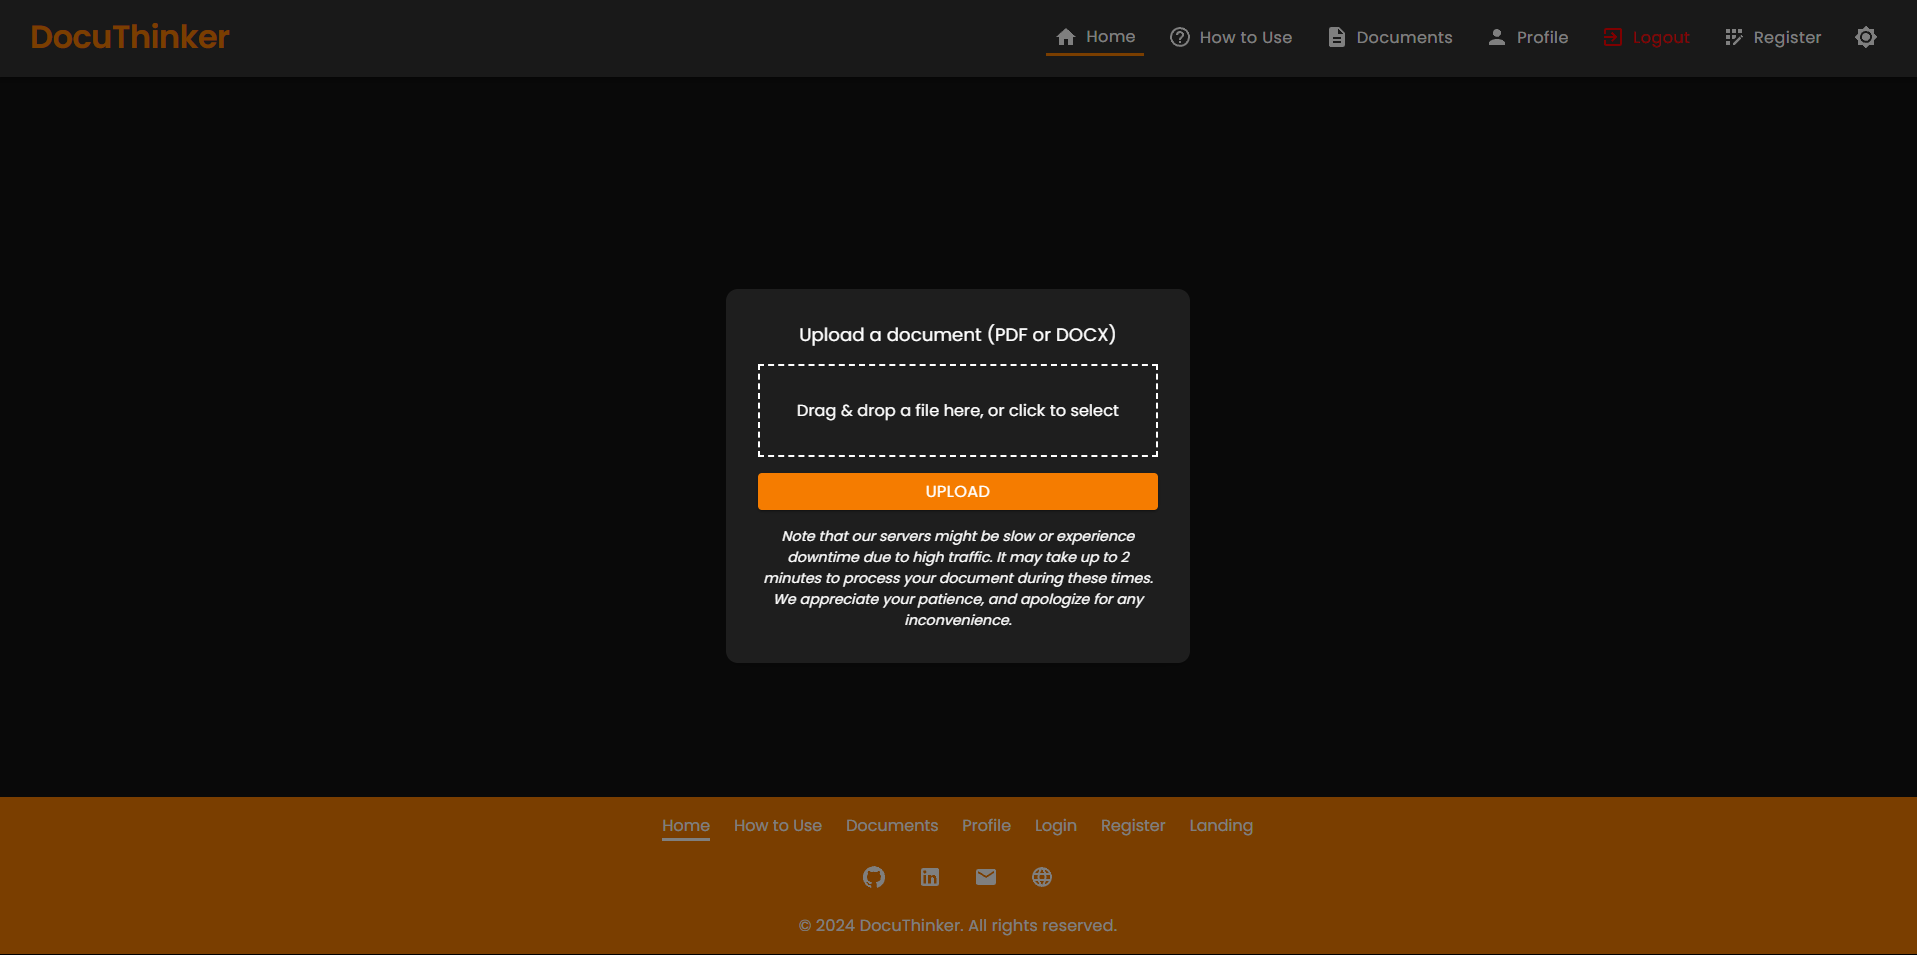
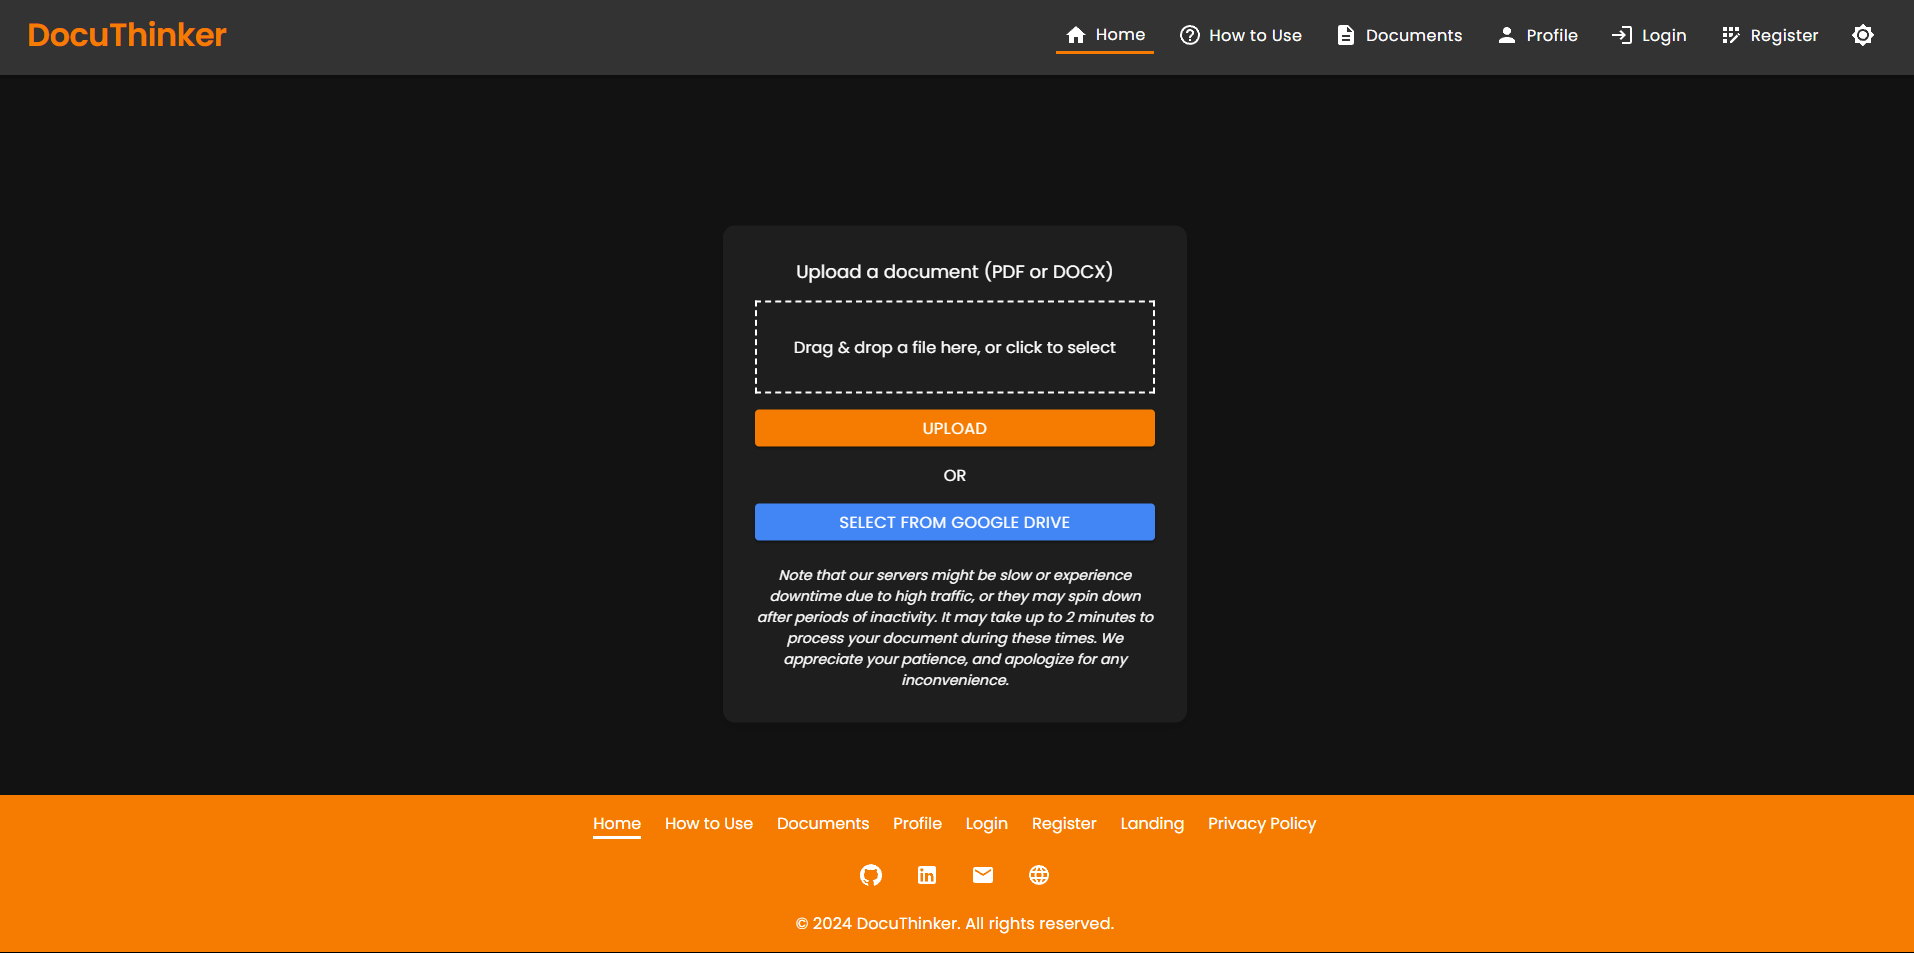
Final: App Working & React FE Done

diff --git a/frontend/src/components/UploadModal.js b/frontend/src/components/UploadModal.js
@@ -1,5 +1,5 @@
 import React, { useEffect, useState } from 'react';
-import { Box, Button, Modal, Typography, CircularProgress, TextField } from '@mui/material';
+import { Box, Button, Typography, CircularProgress, TextField } from '@mui/material';
 import { useDropzone } from 'react-dropzone';
 import axios from 'axios';
 import { gapi } from 'gapi-script';
@@ -17,6 +17,8 @@ const UploadModal = ({ setSummary, setOriginalText, setDocumentFile, theme }) =>
   const [googleAuth, setGoogleAuth] = useState(null);
   const [isGoogleAuthReady, setIsGoogleAuthReady] = useState(false);
   const [driveModalOpen, setDriveModalOpen] = useState(false);
+
+  console.log(open, isUploaded);
 
   const initClient = () => {
     return new Promise((resolve, reject) => {
@@ -116,140 +118,131 @@ const UploadModal = ({ setSummary, setOriginalText, setDocumentFile, theme }) =>
 
   return (
       <>
-        <Modal
-            open={open}
-            onClose={() => {
-              if (isUploaded) setOpen(false);
-            }}
-            disablePortal
-            disableBackdropClick={!isUploaded}
-            disableEscapeKeyDown={!isUploaded}
-            BackdropProps={{
-              style: { backgroundColor: 'rgba(0, 0, 0, 0.5)' },
-            }}
+        <Box
             sx={{
-              zIndex: 1200,
+              position: 'fixed',
+              top: '50%',
+              left: '50%',
+              transform: 'translate(-50%, -50%)',
+              width: { xs: '90%', sm: '70%', md: '400px' },
+              maxHeight: '90vh',
+              padding: { xs: 2, sm: 4 },
+              bgcolor: theme === 'dark' ? '#1e1e1e' : 'white',
+              textAlign: 'center',
+              borderRadius: '12px',
+              transition: 'background-color 0.3s ease',
+              color: theme === 'dark' ? 'white' : 'black',
+              overflowY: 'auto',
+              boxShadow: '0 4px 12px rgba(0, 0, 0, 0.1)',
+              zIndex: 1000,
+              pointerEvents: 'auto',
             }}
         >
-          <Box
+          <Typography
+              variant="h6"
               sx={{
-                position: 'absolute',
-                top: '50%',
-                left: '50%',
-                transform: 'translate(-50%, -50%)',
-                width: { xs: '90%', sm: '70%', md: '400px' },
-                maxHeight: '90vh',
-                padding: { xs: 2, sm: 4 },
-                bgcolor: theme === 'dark' ? '#1e1e1e' : 'white',
-                textAlign: 'center',
-                borderRadius: '12px',
-                transition: 'background-color 0.3s ease',
+                marginBottom: 2,
+                font: 'inherit',
+                fontSize: { xs: '16px', sm: '18px' },
                 color: theme === 'dark' ? 'white' : 'black',
-                overflowY: 'auto',
-                boxShadow: '0 4px 12px rgba(0, 0, 0, 0.1)',
-                border: 'none', // Ensure there's no border around the modal
-                outline: 'none', // Remove any default outline that may appear
+                transition: 'color 0.3s ease',
               }}
           >
+            Upload a document (PDF or DOCX)
+          </Typography>
+
+          <Box
+              {...getRootProps()}
+              sx={{
+                border: `2px dashed ${theme === 'dark' ? 'white' : '#f57c00'}`,
+                padding: { xs: 2, sm: 4 },
+                cursor: 'pointer',
+                marginBottom: 2,
+                transition: 'border-color 0.3s ease',
+              }}
+          >
+            <input {...getInputProps()} />
             <Typography
-                variant="h6"
+                variant="body1"
                 sx={{
-                  marginBottom: 2,
                   font: 'inherit',
-                  fontSize: { xs: '16px', sm: '18px' },
                   color: theme === 'dark' ? 'white' : 'black',
                   transition: 'color 0.3s ease',
                 }}
             >
-              Upload a document (PDF or DOCX)
+              Drag & drop a file here, or click to select
             </Typography>
+          </Box>
 
-            <Box
-                {...getRootProps()}
-                sx={{
-                  border: `2px dashed ${theme === 'dark' ? 'white' : '#f57c00'}`,
-                  padding: { xs: 2, sm: 4 },
-                  cursor: 'pointer',
-                  marginBottom: 2,
-                  transition: 'border-color 0.3s ease',
-                }}
-            >
-              <input {...getInputProps()} />
+          {file && (
               <Typography
-                  variant="body1"
+                  variant="body2"
                   sx={{
+                    mb: 2,
                     font: 'inherit',
                     color: theme === 'dark' ? 'white' : 'black',
                     transition: 'color 0.3s ease',
                   }}
               >
-                Drag & drop a file here, or click to select
+                {file.name}
               </Typography>
-            </Box>
+          )}
 
-            {file && (
-                <Typography
-                    variant="body2"
-                    sx={{
-                      mb: 2,
-                      font: 'inherit',
-                      color: theme === 'dark' ? 'white' : 'black',
-                      transition: 'color 0.3s ease',
-                    }}
-                >
-                  {file.name}
-                </Typography>
-            )}
+          {file && (
+              <TextField
+                  label="Document Title"
+                  value={title}
+                  onChange={(e) => setTitle(e.target.value)}
+                  fullWidth
+                  sx={{ marginBottom: 2, font: 'inherit' }}
+                  inputProps={{
+                    style: { fontFamily: 'Poppins, sans-serif', color: theme === 'dark' ? 'white' : 'black' },
+                  }}
+                  InputLabelProps={{
+                    style: { fontFamily: 'Poppins, sans-serif', color: theme === 'dark' ? 'white' : '#000' },
+                  }}
+              />
+          )}
 
-            {file && (
-                <TextField
-                    label="Document Title"
-                    value={title}
-                    onChange={(e) => setTitle(e.target.value)}
-                    fullWidth
-                    sx={{ marginBottom: 2, font: 'inherit' }}
-                    inputProps={{
-                      style: { fontFamily: 'Poppins, sans-serif', color: theme === 'dark' ? 'white' : 'black' },
-                    }}
-                    InputLabelProps={{
-                      style: { fontFamily: 'Poppins, sans-serif', color: theme === 'dark' ? 'white' : '#000' },
-                    }}
-                />
-            )}
+          <Button
+              variant="contained"
+              sx={{
+                bgcolor: '#f57c00',
+                color: 'white',
+                font: 'inherit',
+                transition: 'background-color 0.3s ease',
+                width: '100%',
+              }}
+              onClick={handleUpload}
+              disabled={loading}
+          >
+            {loading ? <CircularProgress size={24} sx={{ color: 'white' }} /> : 'Upload'}
+          </Button>
 
-            <Button
-                variant="contained"
-                sx={{
-                  bgcolor: '#f57c00',
-                  color: 'white',
-                  font: 'inherit',
-                  transition: 'background-color 0.3s ease',
-                  width: '100%',
-                }}
-                onClick={handleUpload}
-                disabled={loading}
-            >
-              {loading ? <CircularProgress size={24} sx={{ color: 'white' }} /> : 'Upload'}
-            </Button>
+          <Typography sx={{ mt: 2, font: 'inherit' }}>OR</Typography>
 
-            <Typography sx={{ mt: 2, font: 'inherit' }}>OR</Typography>
+          <Button
+              variant="contained"
+              sx={{
+                bgcolor: '#4285F4 !important',
+                color: 'white !important',
+                font: 'inherit',
+                mt: 2,
+                width: '100%',
+                '&:hover': {
+                  bgcolor: '#3367D6 !important',
+                },
+              }}
+              onClick={handleGoogleLogin}
+              disabled={!isGoogleAuthReady}
+          >
+            {isGoogleAuthReady ? 'Select from Google Drive' : 'Loading Google Auth...'}
+          </Button>
 
-            <Button
-                variant="contained"
-                sx={{
-                  bgcolor: '#4285F4 !important',
-                  color: 'white !important',
-                  font: 'inherit',
-                  mt: 2,
-                  width: '100%',
-                }}
-                onClick={handleGoogleLogin}
-                disabled={!isGoogleAuthReady}
-            >
-              {isGoogleAuthReady ? 'Select from Google Drive' : 'Loading Google Auth...'}
-            </Button>
-          </Box>
-        </Modal>
+          <Typography sx={{ mt: 3, font: 'inherit', color: theme === 'dark' ? 'white' : 'black', fontSize: '14px' }}>
+            <em>Note that our servers might be slow or experience downtime due to high traffic, or they may spin down after periods of inactivity. It may take up to 2 minutes to process your document during these times. We appreciate your patience, and apologize for any inconvenience.</em>
+          </Typography>
+        </Box>
 
         <GoogleDriveFileSelectorModal
             open={driveModalOpen}

diff --git a/frontend/src/components/GoogleDriveFileSelectorModal.js b/frontend/src/components/GoogleDriveFileSelectorModal.js
@@ -62,7 +62,7 @@ const GoogleDriveFileSelectorModal = ({ open, handleClose, googleAuth, onFileSel
     } catch (error) {
       console.error('Failed to retrieve file from Google Drive:', error);
     } finally {
-      setSelectedFileId(null); // Reset after download is complete
+      setSelectedFileId(null);
     }
   };
 
@@ -134,7 +134,7 @@ const GoogleDriveFileSelectorModal = ({ open, handleClose, googleAuth, onFileSel
           />
 
           {loading ? (
-              <CircularProgress sx={{ textAlign: 'center', color: theme === 'dark' ? 'white' : '#f57c00' }} />
+              <CircularProgress sx={{ textAlign: 'center !important', color: theme === 'dark' ? 'white' : '#f57c00' }} />
           ) : (
               <Box sx={{ maxHeight: '300px', overflowY: 'auto', width: '100%' }}>
                 {driveFiles.length > 0 ? (
@@ -150,7 +150,8 @@ const GoogleDriveFileSelectorModal = ({ open, handleClose, googleAuth, onFileSel
                                 font: 'inherit',
                                 textAlign: 'left',
                                 color: theme === 'dark' ? 'white' : 'black',
-                                borderColor: theme === 'dark' ? 'white' : '#f57c00',
+                                border: 'none',
+                                boxShadow: '0 2px 4px rgba(0, 0, 0, 0.1)',
                                 '&:hover': {
                                   backgroundColor: theme === 'dark' ? '#333' : '#f57c00',
                                   color: 'white',
@@ -158,7 +159,7 @@ const GoogleDriveFileSelectorModal = ({ open, handleClose, googleAuth, onFileSel
                               }}
                           >
                             {selectedFileId === file.id ? (
-                                <CircularProgress size={24} sx={{ color: theme === 'dark' ? 'white' : 'black' }} />
+                                <CircularProgress size={24} sx={{ color: theme === 'dark' ? 'white' : 'black', textAlign: 'center !important' }} />
                             ) : (
                                 file.name
                             )}

diff --git a/frontend/src/App.js b/frontend/src/App.js
@@ -55,11 +55,7 @@ function App() {
     localStorage.setItem('theme', newTheme);
   };
 
-  console.log('Google Client ID:', process.env.REACT_APP_GOOGLE_CLIENT_ID);
-
-
   return (
-      // Wrap your entire app in GoogleOAuthProvider
       <GoogleOAuthProvider clientId={process.env.REACT_APP_GOOGLE_CLIENT_ID}>
         <Router>
           <GoogleAnalytics />

diff --git a/frontend/src/components/Navbar.js b/frontend/src/components/Navbar.js
@@ -170,6 +170,7 @@ const Navbar = ({ theme, onThemeToggle, onLogout }) => {
           position="static"
           sx={{
             bgcolor: theme === 'dark' ? '#333' : 'white',
+            zIndex: 1000,
             padding: 1,
             transition: 'background-color 0.3s ease, color 0.3s ease',
           }}

diff --git a/README.md b/README.md
@@ -17,6 +17,8 @@ Welcome to **DocuThinker**! This is a full-stack **(FERN-Stack)** application th
     - [**Document Upload Page**](#document-upload-page)
     - [**Document Upload Page - Dark Mode**](#document-upload-page---dark-mode)
     - [**Document Upload Page - Document Uploaded**](#document-upload-page---document-uploaded)
+    - [**Google Drive Document Selection**](#google-drive-document-selection)
+    - [**Google Drive Document Selection - Dark Mode**](#google-drive-document-selection---dark-mode)
     - [**Home Page**](#home-page)
     - [**Home Page - Dark Mode**](#home-page---dark-mode)
     - [**Home Page - With Key Ideas**](#home-page---with-key-ideas)
@@ -165,6 +167,18 @@ It is currently deployed live on **Vercel** and **Render**. You can access the l
 
 <p align="center">
   <img src="images/file-uploaded.png" alt="Document Upload Page - Document Uploaded" width="100%" style="border-radius: 8px">
+</p>
+
+### **Google Drive Document Selection**
+
+<p align="center">
+  <img src="images/drive-upload.png" alt="Google Drive Document Selection" width="100%" style="border-radius: 8px">
+</p>
+
+### **Google Drive Document Selection - Dark Mode**
+
+<p align="center">
+  <img src="images/drive-upload-dark.png" alt="Google Drive Document Selection - Dark Mode" width="100%" style="border-radius: 8px">
 </p>
 
 ### **Home Page**
